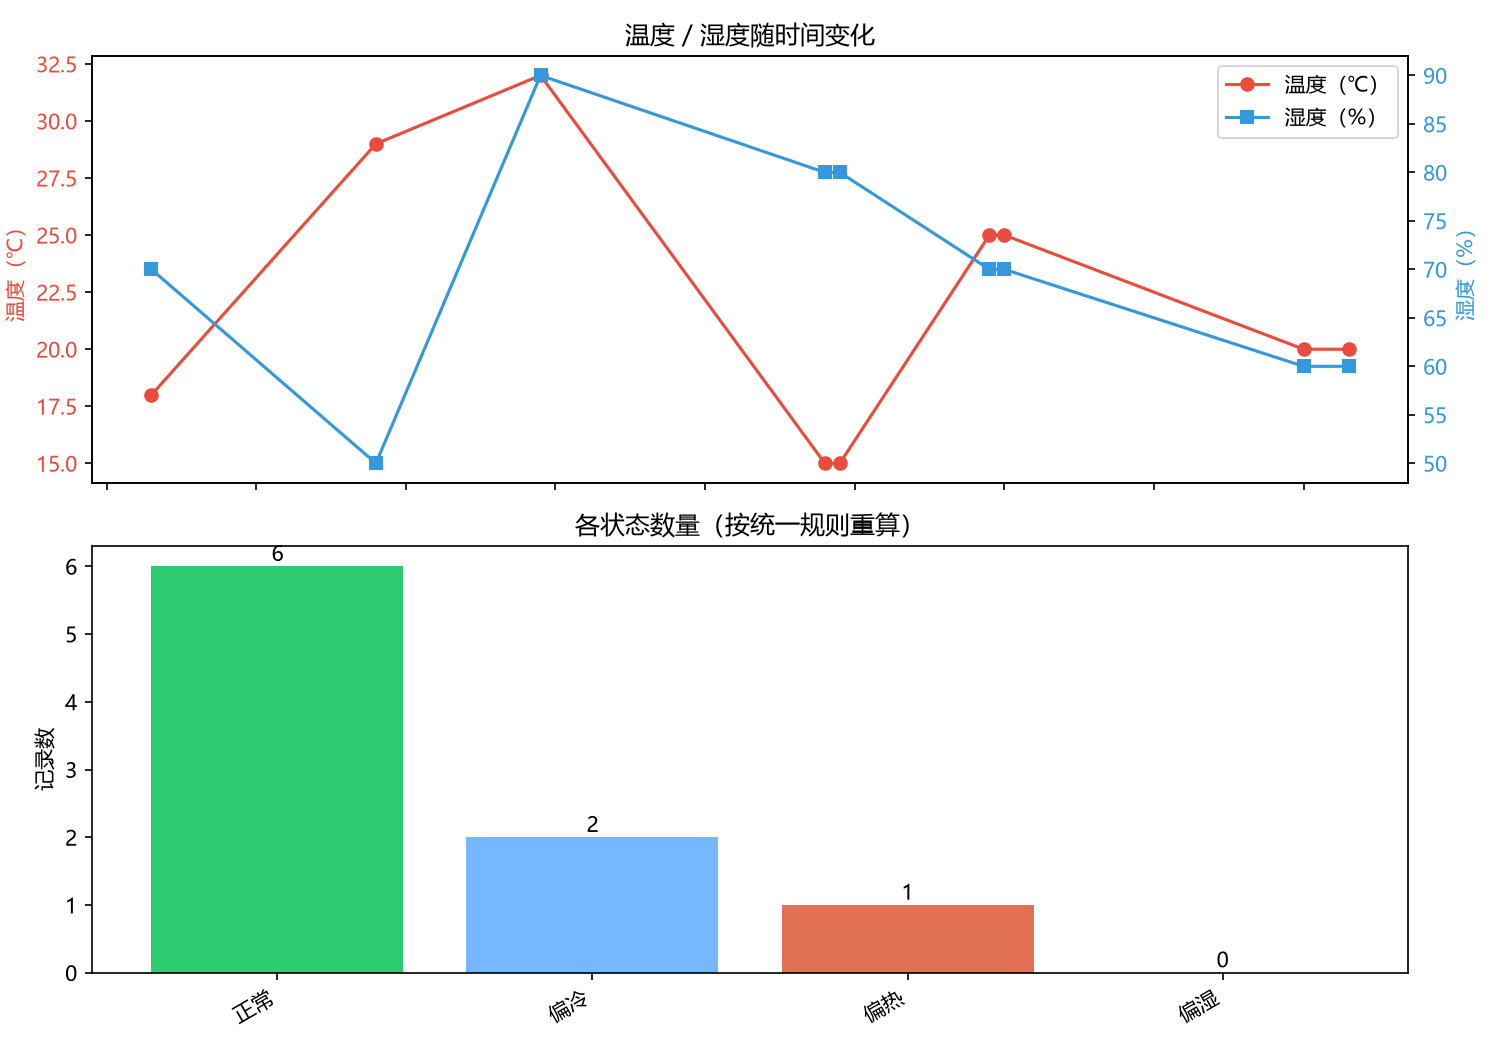
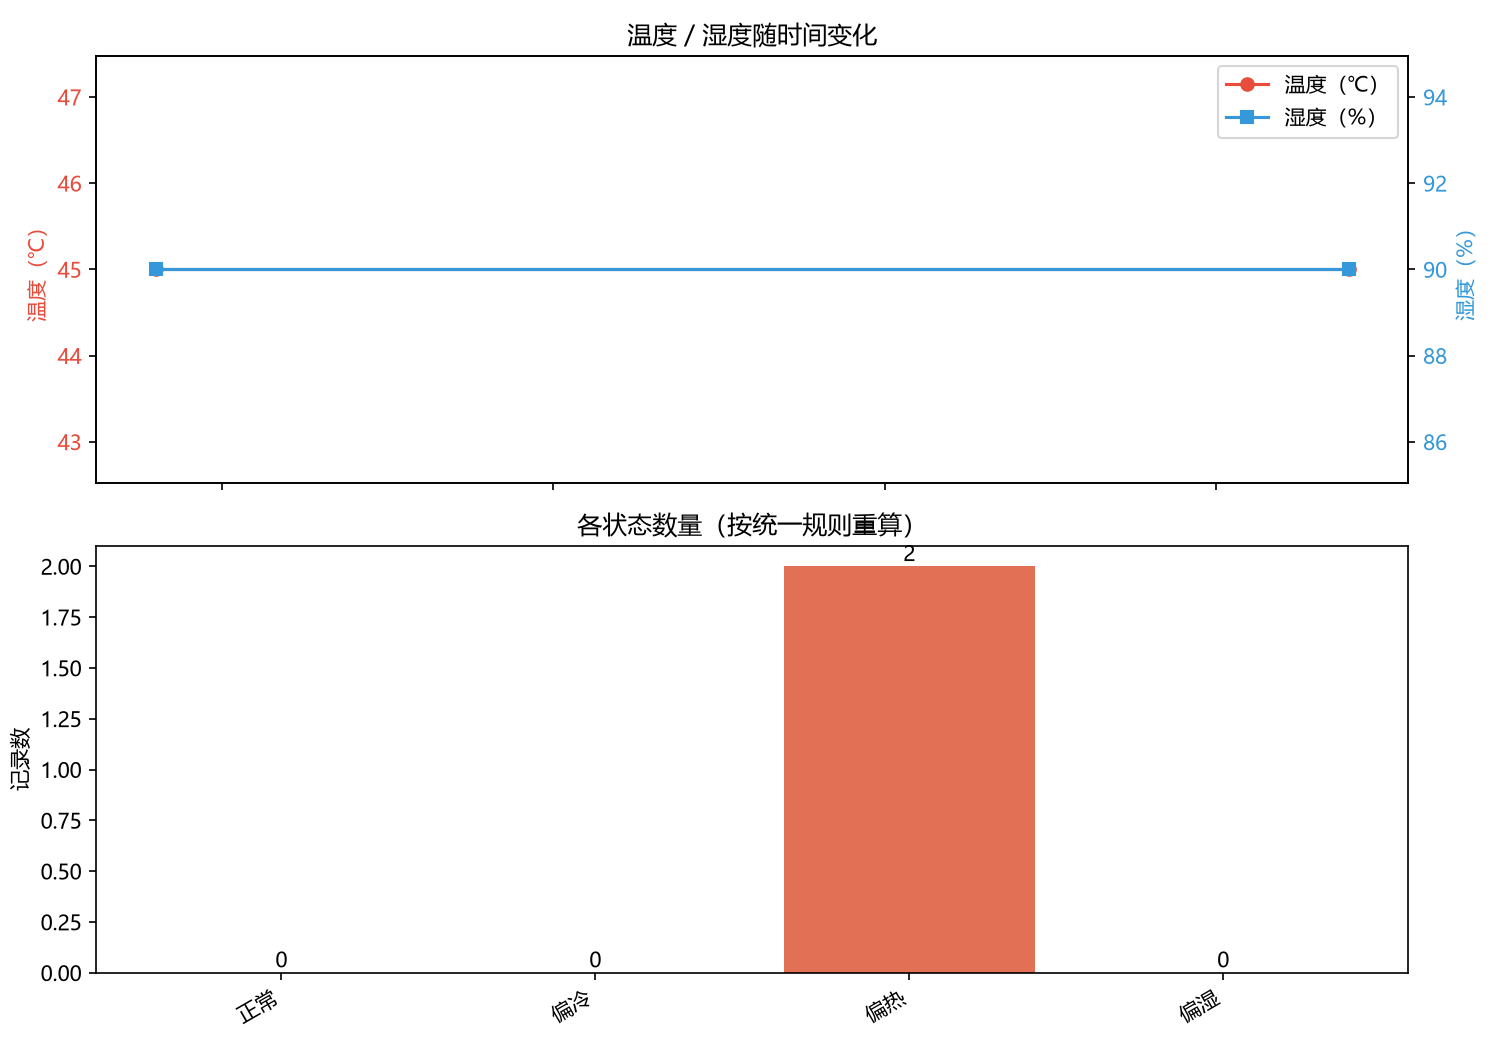
feat(nova-dormmate-final-2026): M2 auto-pick newest CSV and watch mode

diff --git a/data/report.html b/data/report.html
@@ -19,17 +19,17 @@ img { max-width: 100%; border: 1px solid #e3e8ee; border-radius: 4px; }
 </head>
 <body>
 <h1>DormMate 离线分析报告</h1>
-<p class="meta">生成时间：2026-09-26 15:53:04 · 数据来源：dormmate2.csv（9 条记录）</p>
+<p class="meta">生成时间：2026-09-26 16:55:56 · 数据来源：dormmate.csv（2 条记录）</p>
 <!-- C3 扩展点：IsolationForest 结果接回此 section（勿删本注释） -->
 <section>
 <h2>摘要</h2>
-<table><tr><th>记录数</th><td>9</td></tr><tr><th>温度最高</th><td>32℃（2026-09-26 15:44:29）</td></tr><tr><th>温度最低</th><td>15℃（2026-09-26 15:44:48）</td></tr><tr><th>湿度最高</th><td>90%（2026-09-26 15:44:29）</td></tr><tr><th>湿度最低</th><td>50%（2026-09-26 15:44:18）</td></tr><tr><th>状态自查</th><td>CSV status 列与重算不一致 0 条</td></tr></table>
+<table><tr><th>记录数</th><td>2</td></tr><tr><th>温度最高</th><td>45℃（2026-09-26 16:49:24）</td></tr><tr><th>温度最低</th><td>45℃（2026-09-26 16:49:24）</td></tr><tr><th>湿度最高</th><td>90%（2026-09-26 16:49:24）</td></tr><tr><th>湿度最低</th><td>90%（2026-09-26 16:49:24）</td></tr><tr><th>状态自查</th><td>CSV status 列与重算不一致 0 条</td></tr></table>
 <h3>各状态数量（按统一规则重算）</h3>
-<table><tr><th>正常</th><td>6</td></tr><tr><th>偏冷</th><td>2</td></tr><tr><th>偏热</th><td>1</td></tr><tr><th>偏湿</th><td>0</td></tr></table>
+<table><tr><th>正常</th><td>0</td></tr><tr><th>偏冷</th><td>0</td></tr><tr><th>偏热</th><td>2</td></tr><tr><th>偏湿</th><td>0</td></tr></table>
 </section>
 <section>
 <h2>关注记录（status 非正常）</h2>
-<table><tr><th>时间</th><th>温度</th><th>湿度</th><th>状态</th></tr><tr><td>2026-09-26 15:44:29</td><td>32℃</td><td>90%</td><td class='status'>偏热</td></tr><tr><td>2026-09-26 15:44:48</td><td>15℃</td><td>80%</td><td class='status'>偏冷</td></tr><tr><td>2026-09-26 15:44:49</td><td>15℃</td><td>80%</td><td class='status'>偏冷</td></tr></table>
+<table><tr><th>时间</th><th>温度</th><th>湿度</th><th>状态</th></tr><tr><td>2026-09-26 16:49:24</td><td>45℃</td><td>90%</td><td class='status'>偏热</td></tr><tr><td>2026-09-26 16:49:42</td><td>45℃</td><td>90%</td><td class='status'>偏热</td></tr></table>
 </section>
 <section>
 <h2>趋势图</h2>

diff --git a/analysis/analyze.py b/analysis/analyze.py
@@ -4,13 +4,15 @@
 对全部记录重跑统一规则（SPEC §3）→ 基础统计 → matplotlib trend.png → report.html
 
 用法：
-  python analysis/analyze.py [csv路径] [--out 输出目录]    # 默认 data/dormmate.csv，产物输出 data/
+  python analysis/analyze.py [csv路径] [--out 输出目录]    # 不指定 CSV 时自动选择输出目录中最新的 CSV；产物输出 data/
+  python analysis/analyze.py --watch [--out 输出目录]      # 监控目录：放入 / 更换 CSV 后自动重新生成
   python analysis/analyze.py --selftest                    # SPEC §6 四组回归自测
 换一份新 CSV 后重跑即全量重新生成统计、trend.png、report.html（禁止手工修改结果）。
 """
 import argparse
 import html
 import sys
+import time
 from datetime import datetime
 from pathlib import Path
 
@@ -278,6 +280,44 @@ def print_stats(stats, csv_path, trend_path, report_path):
     print(f"  {report_path}")
 
 
+def pick_csv(data_dir):
+    """不指定 CSV 时自动选择目录中最新的 .csv（"更换 CSV"语义：新文件即当前数据源，旧文件保留）。"""
+    data_dir = Path(data_dir)
+    csv_files = list(data_dir.glob("*.csv")) if data_dir.exists() else []
+    if not csv_files:
+        raise FileNotFoundError(
+            f"目录 {data_dir} 中没有 CSV 文件，请把 Web 导出的 CSV 放进 data/ 目录"
+        )
+    return max(csv_files, key=lambda p: p.stat().st_mtime)
+
+
+def watch(out_dir):
+    """监控输出目录：放入或更换 CSV 后自动重新生成统计、trend.png、report.html（Ctrl+C 停止）。"""
+    out_dir = Path(out_dir)
+    out_dir.mkdir(parents=True, exist_ok=True)
+    print(f"监控目录: {out_dir}")
+    print("放入或更换 CSV 文件后自动重新生成统计、trend.png、report.html（Ctrl+C 停止）")
+    last_signature = None
+    while True:
+        try:
+            csv_files = list(out_dir.glob("*.csv"))
+            if csv_files:
+                newest = max(csv_files, key=lambda p: p.stat().st_mtime)
+                signature = (str(newest), newest.stat().st_mtime, newest.stat().st_size)
+                if signature != last_signature:
+                    last_signature = signature
+                    print(f"[检测到 CSV] {newest.name}")
+                    try:
+                        run_pipeline(newest, out_dir)
+                    except (FileNotFoundError, ValueError) as e:
+                        print(f"[跳过] {newest.name}: {e}", file=sys.stderr)
+                    sys.stdout.flush()  # 输出重定向到文件时不丢日志
+            time.sleep(2)
+        except KeyboardInterrupt:
+            print("停止监控")
+            break
+
+
 def run_pipeline(csv_path, out_dir):
     """完整管线：读 CSV → 统计 → trend.png → report.html → 控制台输出。"""
     df = load_csv(csv_path)
@@ -296,10 +336,18 @@ def main():
         description="DormMate M2 离线分析：CSV -> 统计 / trend.png / report.html"
     )
     parser.add_argument(
-        "csv", nargs="?", default=str(DEFAULT_CSV), help=f"CSV 文件路径（默认 {DEFAULT_CSV}）"
+        "csv",
+        nargs="?",
+        default=None,
+        help="CSV 文件路径（不指定则自动选择输出目录中最新的 CSV）",
     )
     parser.add_argument(
         "--out", default=str(DEFAULT_OUT), help=f"产物输出目录（默认 {DEFAULT_OUT}）"
+    )
+    parser.add_argument(
+        "--watch",
+        action="store_true",
+        help="监控输出目录：放入 / 更换 CSV 后自动重新生成",
     )
     parser.add_argument("--selftest", action="store_true", help="SPEC §6 四组回归自测")
     args = parser.parse_args()
@@ -308,7 +356,14 @@ def main():
         sys.exit(0 if selftest() else 1)
 
     try:
-        run_pipeline(args.csv, args.out)
+        if args.watch:
+            watch(args.out)
+        else:
+            csv_path = args.csv
+            if csv_path is None:
+                csv_path = pick_csv(args.out)
+                print(f"[自动选择最新 CSV] {csv_path}")
+            run_pipeline(csv_path, args.out)
     except (FileNotFoundError, ValueError) as e:
         print(f"[错误] {e}", file=sys.stderr)
         sys.exit(1)

diff --git a/docs/PLAN.md b/docs/PLAN.md
@@ -169,7 +169,7 @@
 
 - **当前阶段**：M3（本机交互 + 版本记录）——待用户启动；进入前先建 docs/M3_PLAN.md（同 M1/M2 模式）
 - **当前只做**：无进行中任务；M2 已收口（S1-S7 全过，用户实测验收通过）
-- **已完成**：阶段0 —— docs/DORMMATE_SPEC.md、docs/PLAN.md、CLAUDE.md 已创建并提交（e1b01a7）；S0 文档对齐（SPEC/PLAN 按任务书原文修正 M1 合并口径 / 校验范围 / M2/M3 重定义 / A 组重定义 / B 组程序化说明 / C 组 IsolationForest / action 预留字段 / GitHub 仓库名 nova-dormmate-final-2026）；M1 全部（S1-S7，证据在 docs/evidence/m1/，提交 64e2aa0、f9bcd24）；M2 全部（S1-S7：Web 导出 CSV（Blob/download，UTF-8 BOM，4 列）/ Python 规则移植 + 四组回归自测 / pandas 统计 + 关注记录 / matplotlib trend.png / report.html 三要素 + C3 扩展点 / 换 CSV 全量重生成验收 / 收口，证据在 docs/evidence/m2/，提交见最近Commit）
+- **已完成**：阶段0 —— docs/DORMMATE_SPEC.md、docs/PLAN.md、CLAUDE.md 已创建并提交（e1b01a7）；S0 文档对齐（SPEC/PLAN 按任务书原文修正 M1 合并口径 / 校验范围 / M2/M3 重定义 / A 组重定义 / B 组程序化说明 / C 组 IsolationForest / action 预留字段 / GitHub 仓库名 nova-dormmate-final-2026）；M1 全部（S1-S7，证据在 docs/evidence/m1/，提交 64e2aa0、f9bcd24）；M2 全部（S1-S8：Web 导出 CSV（Blob/download，UTF-8 BOM，4 列）/ Python 规则移植 + 四组回归自测 / pandas 统计 + 关注记录 / matplotlib trend.png / report.html 三要素 + C3 扩展点 / 换 CSV 全量重生成验收 / 收口 / "更换后自动生成"增强（自动选最新 CSV + --watch 监控模式），证据在 docs/evidence/m2/，提交见最近Commit）
 - **阻塞**：无
 - **下一步**：用户说"继续 M3"即建 docs/M3_PLAN.md 启动 M3
 - **最近Commit**：feat(nova-dormmate-final-2026): M2 offline analysis CSV export and python report（本看板随该提交更新）

diff --git a/docs/M2_PLAN.md b/docs/M2_PLAN.md
@@ -9,6 +9,7 @@
 - **关注记录口径**：任务书未明确定义，按 SPEC §8 注：status 非正常（偏冷 / 偏热 / 偏湿）即关注记录
 - **M5 起 CSV 方案提前锁定**：三节点阶段每节点一个 CSV 文件（data/dorm-a.csv 等），保持 4 列不变（SPEC §5 推荐方案，全项目统一）；analyze.py 路径参数化天然支持每节点文件
 - **数据来源红线（用户提醒）**：CSV 必须是 M1 Web 页面实际运行导出的文件，禁止手工在 Excel 改数据；time 必须全格式 YYYY-MM-DD HH:MM:SS（导出时原样输出，不用 toLocaleString）
+- **"更换 CSV"语义（用户要求）**：analyze.py 不指定文件时自动选择 data/ 目录中最新的 CSV（旧文件保留、新文件生效）；提供 `--watch` 监控模式，放入 / 更换 CSV 后自动重新生成，无需手动指定路径
 
 ## 2. 范围红线（M2 不做）
 
@@ -69,6 +70,12 @@
 - 对照 §5 验收清单逐条走查；证据截图 docs/evidence/m2/（CSV 在 WPS/Excel 打开、控制台统计、trend.png、report.html 渲染、换 CSV 前后对比）
 - README.md 补 M2 运行方式；PLAN.md §4 看板 M2 完成、§2 状态列；按 PLAN §6 模板输出交接摘要
 - 提交（先展示变更摘要）：`feat(nova-dormmate-final-2026): M2 offline analysis CSV export and python report`
+
+### S8 "更换后自动生成"增强 ✅ 已完成（测试1：不指定 CSV 自动选最新 new.csv（9 条）；测试2：--watch 放入两份 CSV 管线自动跑 2 次、最终报告为最新文件数据）
+
+- analyze.py：不指定 CSV 时 `pick_csv()` 自动选输出目录中最新的 .csv；`--watch` 每 2 秒轮询，检测到新 / 更换的 CSV 自动重跑管线（单文件错误跳过不退出）；watch 输出 flush 防日志丢失
+- 检查点：见 §1 决策记录"更换 CSV 语义"；README 运行方式已同步
+- 提交：待用户确认后提交
 
 ## 4. 关键设计 — 与后续阶段衔接
 

diff --git a/README.md b/README.md
@@ -7,8 +7,9 @@
 - **主应用**：Chrome / Edge 打开 `web/index.html`（也可用 VS Code Live Server 起 http://127.0.0.1:5500/web/index.html）
 - **回归测试**：打开 `web/test.html`，四组统一回归数据（SPEC §6）应全部显示通过
 - **离线分析（M2）**：Web 页"导出 CSV"得到 dormmate.csv 放到 `data/` 后，在项目根目录运行（需 Python 3 + pandas + matplotlib）：
-  - `python analysis/analyze.py` —— 读取 `data/dormmate.csv`，输出统计并生成 `data/trend.png`、`data/report.html`
-  - `python analysis/analyze.py 其他CSV路径` —— 换一份新 CSV 后全量重新生成统计与两产物（验收要求，禁止手工修改）
+  - `python analysis/analyze.py` —— 自动选择 `data/` 中**最新的 CSV**（"更换 CSV"即新文件生效，旧文件保留），输出统计并生成 `data/trend.png`、`data/report.html`
+  - `python analysis/analyze.py 其他CSV路径` —— 指定某个 CSV 全量重新生成统计与两产物（验收要求，禁止手工修改）
+  - `python analysis/analyze.py --watch` —— 监控 `data/`：放入或更换 CSV 后**自动重新生成**，无需手动运行（Ctrl+C 停止）
   - `python analysis/analyze.py --selftest` —— SPEC §6 四组回归自测
 
 ## 当前进度（M2 完成；最新看板见 docs/PLAN.md §4）
